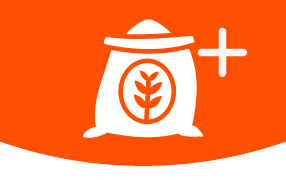
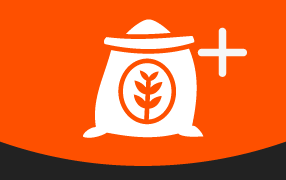
new home + create recipe

Changed region(s): [[0.0, 0.7778, 1.0, 1.0]]

diff --git a/src/components/CreateRecipe.tsx b/src/components/CreateRecipe.tsx
@@ -1,8 +1,10 @@
 import { v4 as uuidv4 } from "uuid";
 import { Field, Formik, Form, FieldArray } from "formik";
+import { TiDelete } from "react-icons/ti";
 import { RecipeTS } from "../interfaces/RecipeTS";
 import { useNavigate } from "react-router-dom";
 import { Button } from "react-bootstrap";
+import "./CreateRecipeForm.scss";
 
 export default function CreateRecipe(): JSX.Element {
   const navigate = useNavigate();
@@ -21,8 +23,11 @@ export default function CreateRecipe(): JSX.Element {
   };
 
   return (
-    <div className="p-4">
-      <h1>Create Recipe</h1>
+    <div className="create-form">
+      <Button variant="dark" onClick={() => navigate("../browse")}>
+        Browse recipes &gt;&gt;
+      </Button>
+      <h1>Create a recipe</h1>
       <Formik
         initialValues={initialValues}
         onSubmit={(values) => {
@@ -43,17 +48,14 @@ export default function CreateRecipe(): JSX.Element {
               <Field id="servingSize" name="servingSize" />
             </div>
             <div className="m-2">
-              <h5>Ingredients</h5>
+              <h2>Ingredients</h2>
               <FieldArray name="ingredients">
                 {({ insert, remove, push }) => (
                   <div>
                     {values.ingredients.length > 0 &&
                       values.ingredients.map((ingredient, index) => (
-                        <div key={index}>
-                          <label
-                            htmlFor={`ingredients.${index}.amount`}
-                            className="p-1"
-                          >
+                        <div key={index} className="create-ingredients">
+                          <label htmlFor={`ingredients.${index}.amount`}>
                             Amount
                           </label>
                           <Field
@@ -61,10 +63,7 @@ export default function CreateRecipe(): JSX.Element {
                             placeholder="ex. 1 tsp"
                             type="text"
                           />
-                          <label
-                            htmlFor={`ingredients.${index}.ingredient`}
-                            className="p-1"
-                          >
+                          <label htmlFor={`ingredients.${index}.ingredient`}>
                             Ingredient
                           </label>
                           <Field
@@ -72,17 +71,16 @@ export default function CreateRecipe(): JSX.Element {
                             placeholder="ex. Salt"
                             type="text"
                           />
-                          <button
-                            type="button"
-                            className="secondary"
+                          <span
+                            className="create-form-button"
                             onClick={() => remove(index)}
                           >
-                            X
-                          </button>
+                            <TiDelete />
+                          </span>
                         </div>
                       ))}
                     <Button
-                      variant="info"
+                      variant="outline-dark"
                       className="m-2"
                       onClick={() => push({ amount: "", ingredient: "" })}
                     >
@@ -93,17 +91,14 @@ export default function CreateRecipe(): JSX.Element {
               </FieldArray>
             </div>
             <div className="m-2">
-              <h5>Instructions</h5>
+              <h2>Instructions</h2>
               <FieldArray name="instructions">
                 {({ insert, remove, push }) => (
                   <div>
                     {values.instructions.length > 0 &&
                       values.instructions.map((instruction, index) => (
-                        <div key={index}>
-                          <label
-                            htmlFor={`instructions.${index}.instrunction`}
-                            className="p-1"
-                          >
+                        <div key={index} className="create-instructions">
+                          <label htmlFor={`instructions.${index}.instrunction`}>
                             Step {`${index + 1}`}
                           </label>
                           <Field
@@ -111,16 +106,18 @@ export default function CreateRecipe(): JSX.Element {
                             cols="50"
                             rows="4"
                             name={`instructions.${index}`}
-                            placeholder="Add water to a pot..."
                             type="text"
                           />
-                          <button type="button" onClick={() => remove(index)}>
-                            X
-                          </button>
+                          <span
+                            className="create-form-button"
+                            onClick={() => remove(index)}
+                          >
+                            <TiDelete />
+                          </span>
                         </div>
                       ))}
                     <Button
-                      variant="info"
+                      variant="outline-dark"
                       className="m-2"
                       onClick={() => push("")}
                     >
@@ -130,13 +127,8 @@ export default function CreateRecipe(): JSX.Element {
                 )}
               </FieldArray>
             </div>
-            <Button
-              type="submit"
-              variant="outline-info"
-              size="lg"
-              className="m-2"
-            >
-              Submit
+            <Button type="submit" variant="dark" size="lg" className="m-2">
+              Add recipe
             </Button>
           </Form>
         )}

diff --git a/src/components/Home.tsx b/src/components/Home.tsx
@@ -13,12 +13,9 @@ export default function Home() {
         <header className="home-image-header">
           Store Your Recipes <GiForkKnifeSpoon />
         </header>
-        <p className="home-image-pr">
-          In this site you can store your own recipes. You can also modify and
-          delete recipes.
+        <p className="home-image-p">
+          In this site you can store your own recipes.
         </p>
-      </div>
-      <div className="home-links">
         <Container>
           <Row>
             <Col>
@@ -30,7 +27,11 @@ export default function Home() {
                     Add a recipe to your database with title, serving size,
                     instructions and ingredients.
                   </Card.Text>
-                  <Button variant="dark" onClick={() => navigate("/create")}>
+                  <Button
+                    size="lg"
+                    variant="outline-light"
+                    onClick={() => navigate("/create")}
+                  >
                     Create
                   </Button>
                 </Card.Body>
@@ -45,7 +46,11 @@ export default function Home() {
                     Browse all of your recipes in your database. You can also
                     modify and delete recipes.
                   </Card.Text>
-                  <Button variant="dark" onClick={() => navigate("/browse")}>
+                  <Button
+                    size="lg"
+                    variant="outline-light"
+                    onClick={() => navigate("/browse")}
+                  >
                     Browse
                   </Button>
                 </Card.Body>

diff --git a/src/App.tsx b/src/App.tsx
@@ -1,6 +1,7 @@
-import { Container, Nav, Navbar } from "react-bootstrap";
+import { Nav } from "react-bootstrap";
+import { BiFoodMenu } from "react-icons/bi";
 import { Link, Route, Routes } from "react-router-dom";
-import "./App.css";
+import "./App.scss";
 import BrowseRecipes from "./components/BrowseRecipes";
 import CreateRecipe from "./components/CreateRecipe";
 import DeleteRecipe from "./components/DeleteRecipe";
@@ -12,19 +13,11 @@ function App() {
   document.body.style.background = "#f6f6f6";
   return (
     <div className="App">
-      <Navbar>
-        <Container>
-          <Navbar.Brand href="/">Recipe Creator</Navbar.Brand>
-          <Nav className="me-auto">
-            <Link to="/create" className="m-2 text-dark text-decoration-none">
-              Create Recipe
-            </Link>
-            <Link to="/browse" className="m-2 text-dark text-decoration-none">
-              Browse Recipes
-            </Link>
-          </Nav>
-        </Container>
-      </Navbar>
+      <Nav className="navbar">
+        <Link to="/" className="text-light text-decoration-none display-6">
+          Recipe Creator <BiFoodMenu className="navbar-brand" />
+        </Link>
+      </Nav>
       <div className="Content">
         <Routes>
           <Route index element={<Home />} />

diff --git a/src/components/Home.scss b/src/components/Home.scss
@@ -1,32 +1,31 @@
 .home-image {
-    background-image: url("../bg-image.png");
-    height: 300px;
+    background-image: url("../bg-image-new.png");
+    background-size: cover;
     color: white;
-    padding-top: 2.5em;
-    padding-left: 4em;
+    padding: 4em;
+    text-align: center;
 
     .home-image-header {
-        width: 50%;
         font-size: 4em;
         line-height: 1em;
         color: #fe5000;
     }
 
-    .home-image-pr {
-        font-size: 1.5em;
-        width: 50%;
+    .home-image-p {
+        font-size: 1.8em;
     }
-}
-
-.home-links {
-    padding: 2em;
 
     .home-links-card {
-        margin-left: 15%;
-        margin-right: 15%;
-        width: 70%;       
+        margin-left: 17%;
+        margin-right: 17%;
+        margin-top: 7%;
+        width: 66%;       
         border: 4px solid #fe5000;
         border-radius: 1em;
         text-align: center;
+        color: white;
+        background-color: #222222;
     }
+    
 }
+

diff --git a/src/components/CreateRecipeForm.scss b/src/components/CreateRecipeForm.scss
@@ -1,0 +1,42 @@
+@import url('https://fonts.googleapis.com/css2?family=Montserrat:wght@300&display=swap');
+
+.create-form {
+    text-align: center;
+    padding: 1em;
+
+    h1, h2 {
+        font-family: 'Montserrat', sans-serif;
+        padding: 0.3em;
+    }
+
+    label {
+        font-size: 1.3em;
+        padding: 0.3em;
+    }
+
+    input {
+        padding: 0.3em;
+        border: 1px solid black;
+        border-radius: 0.5em;
+    }
+
+    textarea {
+        border: 1px solid black;
+        border-radius: 0.5em;
+        margin-bottom: 0.5em;
+    }
+
+    .create-ingredients, .create-instructions {
+        display: flex; 
+        flex-direction: row; 
+        justify-content: center; 
+        align-items: center
+    }
+
+    .create-form-button {
+        color: red;
+        font-size: 2.5em;
+        cursor: pointer;
+        margin-top: -0.3em;
+    }
+}

diff --git a/src/App.scss b/src/App.scss
@@ -1,0 +1,30 @@
+.App {
+  margin: auto;
+  margin-top: 20px;
+  margin-bottom: 20px;
+  width: 1024px;
+  height: 100%;
+  background: white;
+
+  .navbar {
+    font-size: 1.6em;
+    justify-content: center;
+    text-decoration: none;
+    padding: 0.6em;
+    background-color: #222222;
+  }
+
+  .navbar-brand {
+    font-size: 55px;
+    margin-top: -0.1em;
+  }
+}
+
+.Footer {
+  padding: 15px;
+  text-align: center;
+  font-size: 18px;
+  border-top: 2px solid #fe5000;
+  background-color: #222222;
+  color: white;
+}
